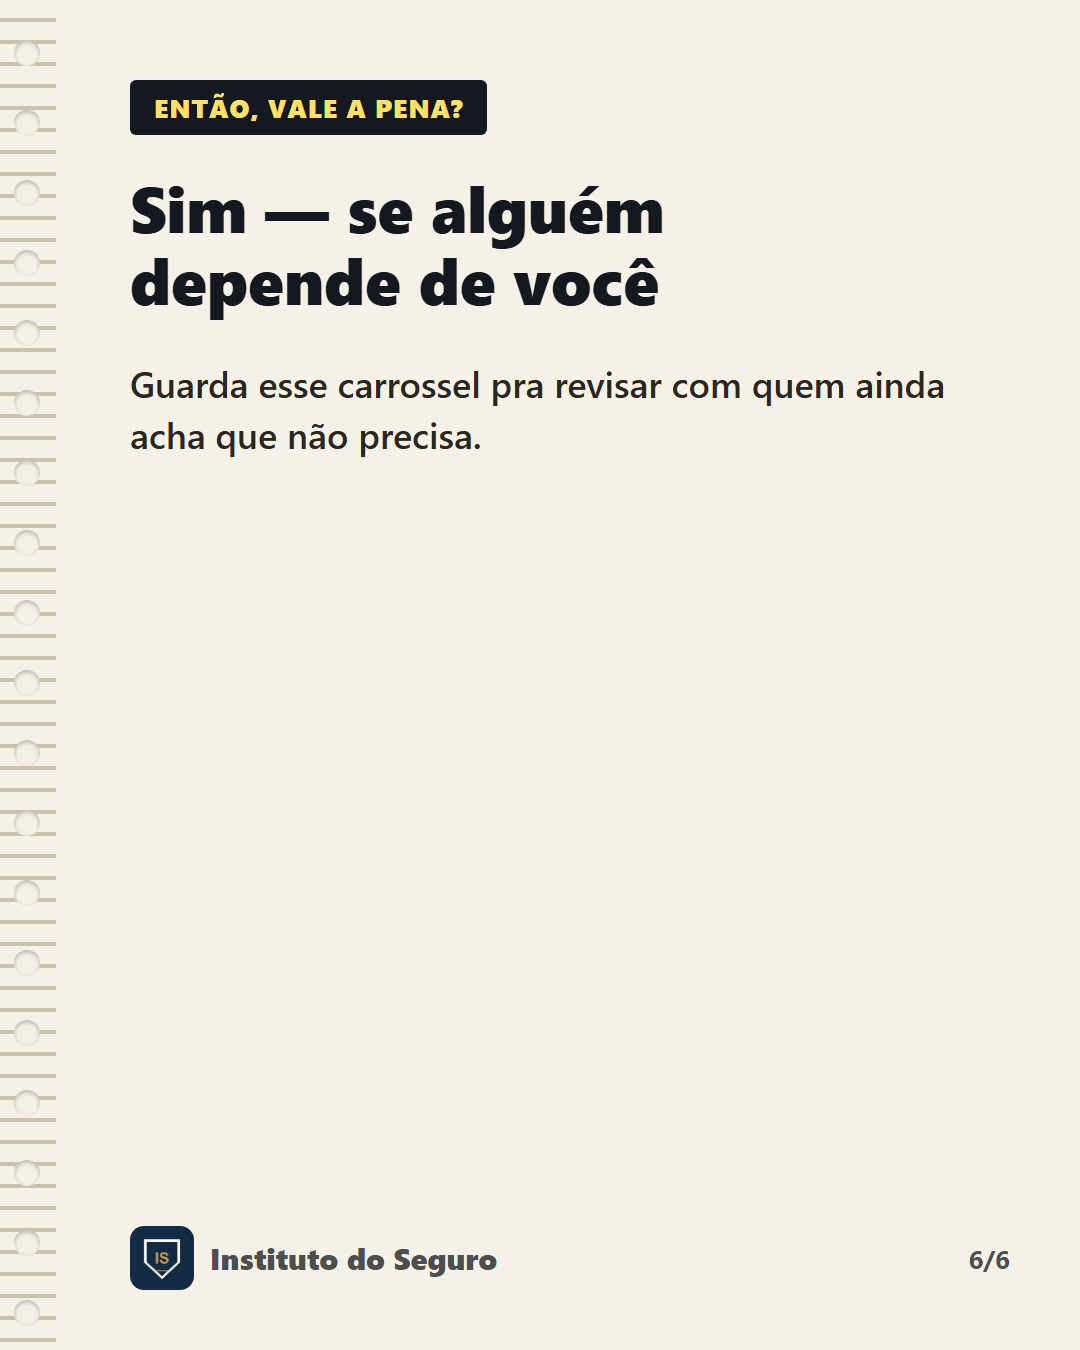
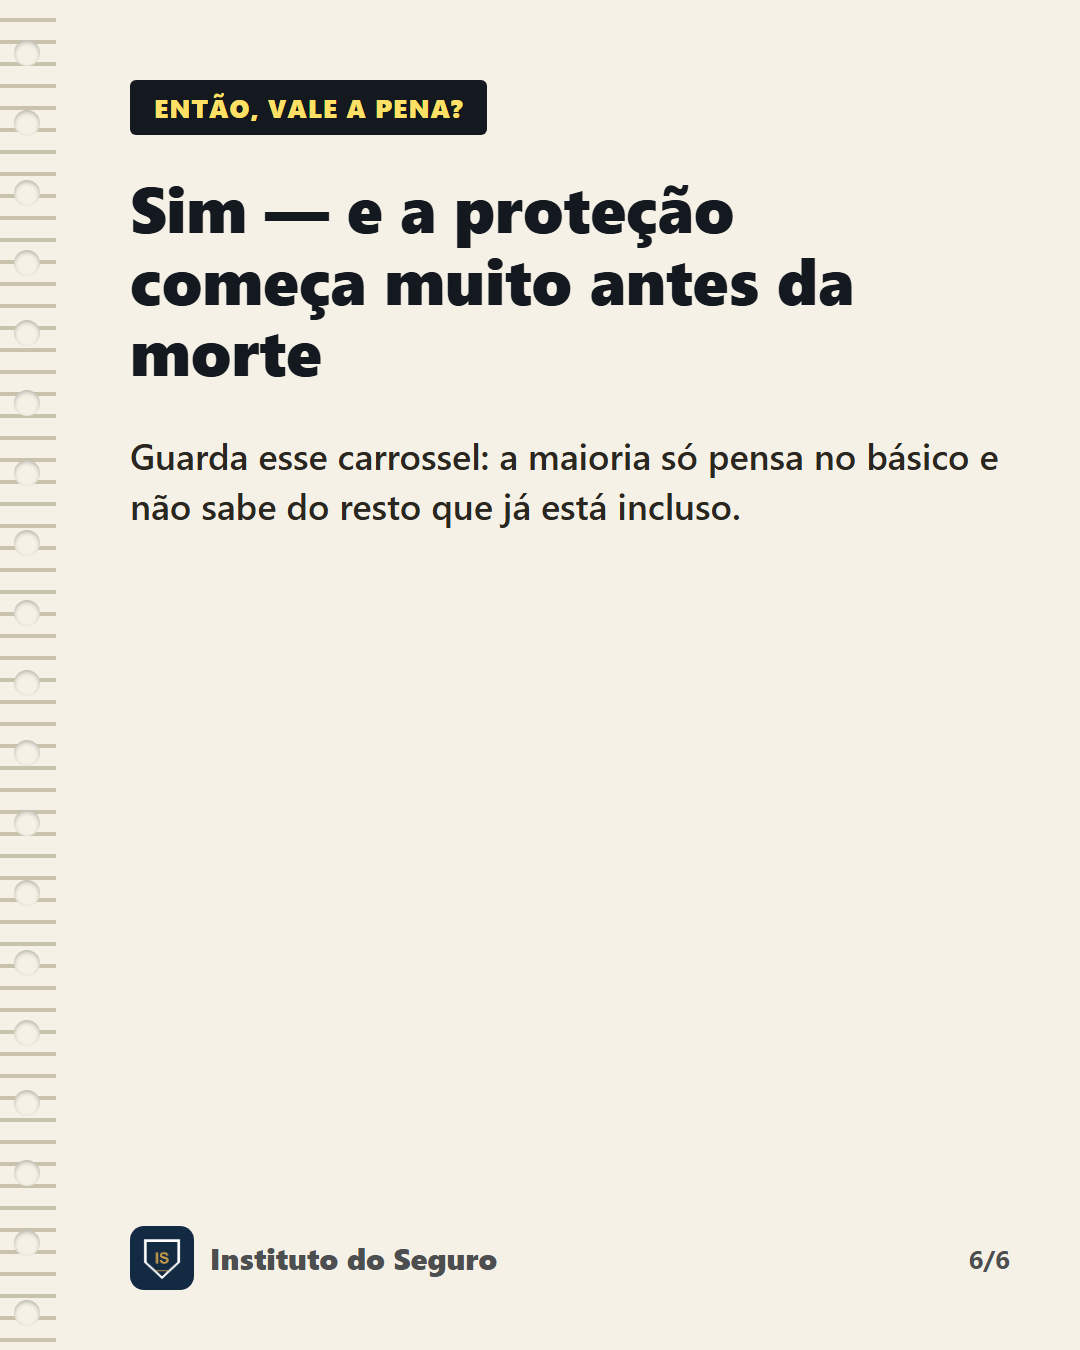
Enriquecer post 3: seguro de vida cobre bem mais que morte
Feedback do usuario (corretor real): a versao anterior era simplorio demais.
Reconstruido com coberturas reais (invalidez, doencas graves, diaria por
incapacidade) e sucessao facilitada (art. 794 CC, capital nao entra em
inventario) - pesquisado e fontado.

Changed region(s): [[0.1222, 0.1244, 0.8861, 0.4044]]

diff --git a/content/semana-03/post-03-vale-a-pena-vida/slide-04.html b/content/semana-03/post-03-vale-a-pena-vida/slide-04.html
@@ -22,15 +22,15 @@
   <div class="spiral"></div>
   <div class="spiral-hole" style="top:40px;"></div><div class="spiral-hole" style="top:110px;"></div><div class="spiral-hole" style="top:180px;"></div><div class="spiral-hole" style="top:250px;"></div><div class="spiral-hole" style="top:320px;"></div><div class="spiral-hole" style="top:390px;"></div><div class="spiral-hole" style="top:460px;"></div><div class="spiral-hole" style="top:530px;"></div><div class="spiral-hole" style="top:600px;"></div><div class="spiral-hole" style="top:670px;"></div><div class="spiral-hole" style="top:740px;"></div><div class="spiral-hole" style="top:810px;"></div><div class="spiral-hole" style="top:880px;"></div><div class="spiral-hole" style="top:950px;"></div><div class="spiral-hole" style="top:1020px;"></div><div class="spiral-hole" style="top:1090px;"></div><div class="spiral-hole" style="top:1160px;"></div><div class="spiral-hole" style="top:1230px;"></div><div class="spiral-hole" style="top:1300px;"></div>
   <div class="content">
-    <div class="tag">MITO 3</div>
-    <h1>"É só pra quem tem filho"</h1>
+    <div class="tag">SUCESSÃO FACILITADA</div>
+    <h1>Não entra no<br><span class='hl'>inventário</span></h1>
     <div class="items">
         <div style="display:flex;justify-content:space-between;align-items:center;
                     padding:22px 0;border-bottom:2px dashed #D8D2C0;">
-          <span style="font-size:36px;color:#2A2620;font-weight:600;">É mito?</span>
-          <span style="font-size:40px;color:#2A2620;font-weight:800;background:#FFE066;padding:2px 10px;border-radius:4px;">SIM</span>
+          <span style="font-size:36px;color:#2A2620;font-weight:600;">Base legal</span>
+          <span style="font-size:40px;color:#2A2620;font-weight:800;background:#FFE066;padding:2px 10px;border-radius:4px;">art. 794 CC</span>
         </div></div>
-    <div class="closing">Vale pra qualquer pessoa que tem alguém dependendo financeiramente dela — cônjuge, pais, sócio.</div>
+    <div class="closing">O capital vai direto pros beneficiários indicados — sem esperar anos de processo de inventário.</div>
   </div>
   
     <div class="brandline" style="color:rgba(20,24,31,0.75)">

diff --git a/content/semana-03/post-03-vale-a-pena-vida/slide-02.html b/content/semana-03/post-03-vale-a-pena-vida/slide-02.html
@@ -22,15 +22,15 @@
   <div class="spiral"></div>
   <div class="spiral-hole" style="top:40px;"></div><div class="spiral-hole" style="top:110px;"></div><div class="spiral-hole" style="top:180px;"></div><div class="spiral-hole" style="top:250px;"></div><div class="spiral-hole" style="top:320px;"></div><div class="spiral-hole" style="top:390px;"></div><div class="spiral-hole" style="top:460px;"></div><div class="spiral-hole" style="top:530px;"></div><div class="spiral-hole" style="top:600px;"></div><div class="spiral-hole" style="top:670px;"></div><div class="spiral-hole" style="top:740px;"></div><div class="spiral-hole" style="top:810px;"></div><div class="spiral-hole" style="top:880px;"></div><div class="spiral-hole" style="top:950px;"></div><div class="spiral-hole" style="top:1020px;"></div><div class="spiral-hole" style="top:1090px;"></div><div class="spiral-hole" style="top:1160px;"></div><div class="spiral-hole" style="top:1230px;"></div><div class="spiral-hole" style="top:1300px;"></div>
   <div class="content">
-    <div class="tag">MITO 1</div>
-    <h1>"Só serve se eu morrer"</h1>
+    <div class="tag">PROTEÇÃO EM VIDA</div>
+    <h1>Invalidez por acidente<br>ou doença grave</h1>
     <div class="items">
         <div style="display:flex;justify-content:space-between;align-items:center;
                     padding:22px 0;border-bottom:2px dashed #D8D2C0;">
-          <span style="font-size:36px;color:#2A2620;font-weight:600;">É mito?</span>
-          <span style="font-size:40px;color:#2A2620;font-weight:800;background:#FFE066;padding:2px 10px;border-radius:4px;">SIM</span>
+          <span style="font-size:36px;color:#2A2620;font-weight:600;">Precisa morrer?</span>
+          <span style="font-size:40px;color:#2A2620;font-weight:800;background:#FFE066;padding:2px 10px;border-radius:4px;">NÃO</span>
         </div></div>
-    <div class="closing">A maioria das apólices já inclui cobertura por invalidez por acidente, não só morte.</div>
+    <div class="closing">Diagnóstico de câncer, AVC, infarto ou perda de autonomia já libera capital — sem esperar o pior acontecer.</div>
   </div>
   
     <div class="brandline" style="color:rgba(20,24,31,0.75)">

diff --git a/content/semana-03/post-03-vale-a-pena-vida/slide-03.html b/content/semana-03/post-03-vale-a-pena-vida/slide-03.html
@@ -22,15 +22,15 @@
   <div class="spiral"></div>
   <div class="spiral-hole" style="top:40px;"></div><div class="spiral-hole" style="top:110px;"></div><div class="spiral-hole" style="top:180px;"></div><div class="spiral-hole" style="top:250px;"></div><div class="spiral-hole" style="top:320px;"></div><div class="spiral-hole" style="top:390px;"></div><div class="spiral-hole" style="top:460px;"></div><div class="spiral-hole" style="top:530px;"></div><div class="spiral-hole" style="top:600px;"></div><div class="spiral-hole" style="top:670px;"></div><div class="spiral-hole" style="top:740px;"></div><div class="spiral-hole" style="top:810px;"></div><div class="spiral-hole" style="top:880px;"></div><div class="spiral-hole" style="top:950px;"></div><div class="spiral-hole" style="top:1020px;"></div><div class="spiral-hole" style="top:1090px;"></div><div class="spiral-hole" style="top:1160px;"></div><div class="spiral-hole" style="top:1230px;"></div><div class="spiral-hole" style="top:1300px;"></div>
   <div class="content">
-    <div class="tag">MITO 2</div>
-    <h1>"Preciso de exame médico caro"</h1>
+    <div class="tag">PROTEÇÃO DE RENDA</div>
+    <h1>Diária por<br>incapacidade temporária</h1>
     <div class="items">
         <div style="display:flex;justify-content:space-between;align-items:center;
                     padding:22px 0;border-bottom:2px dashed #D8D2C0;">
-          <span style="font-size:36px;color:#2A2620;font-weight:600;">É mito?</span>
-          <span style="font-size:40px;color:#2A2620;font-weight:800;background:#FFE066;padding:2px 10px;border-radius:4px;">SIM</span>
+          <span style="font-size:36px;color:#2A2620;font-weight:600;">Função</span>
+          <span style="font-size:40px;color:#2A2620;font-weight:800;">mantém sua renda</span>
         </div></div>
-    <div class="closing">Pra maioria dos casos, um questionário de saúde (DPS) já basta — exame só em idade avançada ou valores altos.</div>
+    <div class="closing">Ficou afastado por acidente ou doença? Essa cobertura substitui parte do salário durante a recuperação.</div>
   </div>
   
     <div class="brandline" style="color:rgba(20,24,31,0.75)">

diff --git a/content/semana-03/post-03-vale-a-pena-vida/slide-05.html b/content/semana-03/post-03-vale-a-pena-vida/slide-05.html
@@ -22,15 +22,10 @@
   <div class="spiral"></div>
   <div class="spiral-hole" style="top:40px;"></div><div class="spiral-hole" style="top:110px;"></div><div class="spiral-hole" style="top:180px;"></div><div class="spiral-hole" style="top:250px;"></div><div class="spiral-hole" style="top:320px;"></div><div class="spiral-hole" style="top:390px;"></div><div class="spiral-hole" style="top:460px;"></div><div class="spiral-hole" style="top:530px;"></div><div class="spiral-hole" style="top:600px;"></div><div class="spiral-hole" style="top:670px;"></div><div class="spiral-hole" style="top:740px;"></div><div class="spiral-hole" style="top:810px;"></div><div class="spiral-hole" style="top:880px;"></div><div class="spiral-hole" style="top:950px;"></div><div class="spiral-hole" style="top:1020px;"></div><div class="spiral-hole" style="top:1090px;"></div><div class="spiral-hole" style="top:1160px;"></div><div class="spiral-hole" style="top:1230px;"></div><div class="spiral-hole" style="top:1300px;"></div>
   <div class="content">
-    <div class="tag">MITO 4</div>
-    <h1>"É caro"</h1>
-    <div class="items">
-        <div style="display:flex;justify-content:space-between;align-items:center;
-                    padding:22px 0;border-bottom:2px dashed #D8D2C0;">
-          <span style="font-size:36px;color:#2A2620;font-weight:600;">É mito?</span>
-          <span style="font-size:40px;color:#2A2620;font-weight:800;background:#FFE066;padding:2px 10px;border-radius:4px;">SIM</span>
-        </div></div>
-    <div class="closing">Existem planos acessíveis pra vários perfis — e o custo de não ter, pra quem depende de você, pode ser bem maior.</div>
+    <div class="tag">NÃO É SÓ PRA QUEM TEM FILHO</div>
+    <h1>Vale pra quem tem<br>alguém <span class='hl'>dependendo</span></h1>
+    <div class="items"></div>
+    <div class="closing">Cônjuge, pais idosos, sócio no negócio — qualquer pessoa que sentiria sua falta financeiramente.</div>
   </div>
   
     <div class="brandline" style="color:rgba(20,24,31,0.75)">

diff --git a/content/semana-03/post-03-vale-a-pena-vida/slide-01.html b/content/semana-03/post-03-vale-a-pena-vida/slide-01.html
@@ -23,9 +23,9 @@
   <div class="spiral-hole" style="top:40px;"></div><div class="spiral-hole" style="top:110px;"></div><div class="spiral-hole" style="top:180px;"></div><div class="spiral-hole" style="top:250px;"></div><div class="spiral-hole" style="top:320px;"></div><div class="spiral-hole" style="top:390px;"></div><div class="spiral-hole" style="top:460px;"></div><div class="spiral-hole" style="top:530px;"></div><div class="spiral-hole" style="top:600px;"></div><div class="spiral-hole" style="top:670px;"></div><div class="spiral-hole" style="top:740px;"></div><div class="spiral-hole" style="top:810px;"></div><div class="spiral-hole" style="top:880px;"></div><div class="spiral-hole" style="top:950px;"></div><div class="spiral-hole" style="top:1020px;"></div><div class="spiral-hole" style="top:1090px;"></div><div class="spiral-hole" style="top:1160px;"></div><div class="spiral-hole" style="top:1230px;"></div><div class="spiral-hole" style="top:1300px;"></div>
   <div class="content">
     <div class="tag">VALE A PENA?</div>
-    <h1>Seguro de Vida:<br>os mitos que travam<br>a <span class='hl'>decisão</span></h1>
+    <h1>Seguro de Vida:<br>muito mais do<br>que só <span class='hl'>morte</span></h1>
     <div class="items"></div>
-    <div class="closing">4 mitos que ainda confundem quem está decidindo contratar 👇</div>
+    <div class="closing">4 formas de proteção que a maioria não sabe que já existem no contrato 👇</div>
   </div>
   
     <div class="brandline" style="color:rgba(20,24,31,0.75)">

diff --git a/content/semana-03/post-03-vale-a-pena-vida/slide-06.html b/content/semana-03/post-03-vale-a-pena-vida/slide-06.html
@@ -23,9 +23,9 @@
   <div class="spiral-hole" style="top:40px;"></div><div class="spiral-hole" style="top:110px;"></div><div class="spiral-hole" style="top:180px;"></div><div class="spiral-hole" style="top:250px;"></div><div class="spiral-hole" style="top:320px;"></div><div class="spiral-hole" style="top:390px;"></div><div class="spiral-hole" style="top:460px;"></div><div class="spiral-hole" style="top:530px;"></div><div class="spiral-hole" style="top:600px;"></div><div class="spiral-hole" style="top:670px;"></div><div class="spiral-hole" style="top:740px;"></div><div class="spiral-hole" style="top:810px;"></div><div class="spiral-hole" style="top:880px;"></div><div class="spiral-hole" style="top:950px;"></div><div class="spiral-hole" style="top:1020px;"></div><div class="spiral-hole" style="top:1090px;"></div><div class="spiral-hole" style="top:1160px;"></div><div class="spiral-hole" style="top:1230px;"></div><div class="spiral-hole" style="top:1300px;"></div>
   <div class="content">
     <div class="tag">ENTÃO, VALE A PENA?</div>
-    <h1>Sim — se alguém<br>depende de você</h1>
+    <h1>Sim — e a proteção<br>começa muito antes da morte</h1>
     <div class="items"></div>
-    <div class="closing">Guarda esse carrossel pra revisar com quem ainda acha que não precisa.</div>
+    <div class="closing">Guarda esse carrossel: a maioria só pensa no básico e não sabe do resto que já está incluso.</div>
   </div>
   
     <div class="brandline" style="color:rgba(20,24,31,0.75)">

diff --git a/scripts/build_lote_03_fix.py b/scripts/build_lote_03_fix.py
@@ -56,22 +56,22 @@ def build_post_03_vale_a_pena_vida():
     total = 6
     slides = [
         notebook_slide(LOGO, "VALE A PENA?",
-                        "Seguro de Vida:<br>os mitos que travam<br>a <span class='hl'>decisão</span>",
-                        [], "4 mitos que ainda confundem quem está decidindo contratar 👇", 1, total),
-        notebook_slide(LOGO, "MITO 1", "\"Só serve se eu morrer\"",
-                        [{"label": "É mito?", "value": "SIM", "highlight": True}],
-                        "A maioria das apólices já inclui cobertura por invalidez por acidente, não só morte.", 2, total),
-        notebook_slide(LOGO, "MITO 2", "\"Preciso de exame médico caro\"",
-                        [{"label": "É mito?", "value": "SIM", "highlight": True}],
-                        "Pra maioria dos casos, um questionário de saúde (DPS) já basta — exame só em idade avançada ou valores altos.", 3, total),
-        notebook_slide(LOGO, "MITO 3", "\"É só pra quem tem filho\"",
-                        [{"label": "É mito?", "value": "SIM", "highlight": True}],
-                        "Vale pra qualquer pessoa que tem alguém dependendo financeiramente dela — cônjuge, pais, sócio.", 4, total),
-        notebook_slide(LOGO, "MITO 4", "\"É caro\"",
-                        [{"label": "É mito?", "value": "SIM", "highlight": True}],
-                        "Existem planos acessíveis pra vários perfis — e o custo de não ter, pra quem depende de você, pode ser bem maior.", 5, total),
-        notebook_slide(LOGO, "ENTÃO, VALE A PENA?", "Sim — se alguém<br>depende de você",
-                        [], "Guarda esse carrossel pra revisar com quem ainda acha que não precisa.", 6, total),
+                        "Seguro de Vida:<br>muito mais do<br>que só <span class='hl'>morte</span>",
+                        [], "4 formas de proteção que a maioria não sabe que já existem no contrato 👇", 1, total),
+        notebook_slide(LOGO, "PROTEÇÃO EM VIDA", "Invalidez por acidente<br>ou doença grave",
+                        [{"label": "Precisa morrer?", "value": "NÃO", "highlight": True}],
+                        "Diagnóstico de câncer, AVC, infarto ou perda de autonomia já libera capital — sem esperar o pior acontecer.", 2, total),
+        notebook_slide(LOGO, "PROTEÇÃO DE RENDA", "Diária por<br>incapacidade temporária",
+                        [{"label": "Função", "value": "mantém sua renda"}],
+                        "Ficou afastado por acidente ou doença? Essa cobertura substitui parte do salário durante a recuperação.", 3, total),
+        notebook_slide(LOGO, "SUCESSÃO FACILITADA", "Não entra no<br><span class='hl'>inventário</span>",
+                        [{"label": "Base legal", "value": "art. 794 CC", "highlight": True}],
+                        "O capital vai direto pros beneficiários indicados — sem esperar anos de processo de inventário.", 4, total),
+        notebook_slide(LOGO, "NÃO É SÓ PRA QUEM TEM FILHO", "Vale pra quem tem<br>alguém <span class='hl'>dependendo</span>",
+                        [],
+                        "Cônjuge, pais idosos, sócio no negócio — qualquer pessoa que sentiria sua falta financeiramente.", 5, total),
+        notebook_slide(LOGO, "ENTÃO, VALE A PENA?", "Sim — e a proteção<br>começa muito antes da morte",
+                        [], "Guarda esse carrossel: a maioria só pensa no básico e não sabe do resto que já está incluso.", 6, total),
     ]
     for i, html in enumerate(slides, 1):
         make_html_and_render(out, f"slide-{i:02d}", html)

diff --git a/content/semana-03/legendas.md b/content/semana-03/legendas.md
@@ -37,13 +37,13 @@ Mito — e o dado é chocante: dos 28,4 milhões de brasileiros que viajaram pro
 ## Quarta 19h — Vale a pena? Seguro de Vida (6 slides)
 **Pasta:** post-03-vale-a-pena-vida/
 
-Seguro de vida: os mitos que travam a decisão de contratar 🛡
+Seguro de vida: muito mais do que só morte 🛡
 
-Separamos os 4 mitos mais comuns que ainda confundem quem está decidindo se vale a pena — de achar que é só pra quem tem filho até achar que precisa de exame médico caro.
+A maioria pensa só no básico. Mas o contrato geralmente já inclui: proteção em vida (invalidez por acidente ou doença grave, sem precisar morrer), proteção de renda (diária por incapacidade temporária), e sucessão facilitada — o capital não entra no inventário (art. 794 do Código Civil), vai direto pros beneficiários, sem esperar anos de processo.
 
-👇 Qual desses mitos você também acreditava?
+👇 Qual dessas coberturas você não sabia que já estava no seu contrato?
 
-#segurodevida #valeapena #institutodoseguro
+#segurodevida #valeapena #institutodoseguro #planejamentosucessorio
 
 ---
 
@@ -77,6 +77,8 @@ Seguro viagem deve crescer 12,2% em 2026 (CNseg), paga comissão média de até 
 Reaproveita o Post 1 (mito seguro auto x aplicativo) — tema mais universal (qualquer dono de carro se pergunta isso) que o de seguro viagem, mais adequado pro teste de fim de semana.
 
 ## Fontes usadas neste lote
+- Coberturas de seguro de vida além de morte (invalidez por acidente/doença, doenças graves, diária por incapacidade temporária): [MetLife — principais coberturas](https://www.metlife.com.br/blog/explica-metlife/principais-coberturas-seguro-de-vida/), [BB Seguros — cobertura de doenças graves](https://www.bbseguros.com.br/seguros/blog/vida/cobertura-doencas-graves-seguro-de-vida)
+- Art. 794 do Código Civil (capital do seguro de vida não é considerado herança, não integra inventário nem responde por dívidas do segurado): [Jusbrasil — art. 794 CC](https://www.jusbrasil.com.br/topicos/10685579/artigo-794-da-lei-n-10406-de-10-de-janeiro-de-2002), [Blog Icatu — seguro de vida entra no inventário?](https://blog.icatuseguros.com.br/minha-vida/seguro-de-vida/seguro-de-vida-entra-no-inventario/)
 - Exclusão de uso comercial em seguro auto comum e exigência de cobertura APP específica pela SUSEP: [Avalia Seguros — seguro para motorista de aplicativo](https://avaliaseguros.com.br/seguro-para-motorista-de-aplicativo/), [Consulta de Placa — seguro motorista app 2026](https://consultadeplaca.net/blog/seguro-motorista-app-uber-99-cabify-cobertura-2026)
 - Art. 771 do Código Civil (dever de aviso de sinistro) e entendimento majoritário de que a perda do direito exige prejuízo comprovado à seguradora, não é automática: [Conjur — o aviso de sinistro na proposta de reforma do Código Civil](https://www.conjur.com.br/2024-mar-07/o-aviso-de-sinistro-na-proposta-de-reforma-do-codigo-civil/), [Jusbrasil — art. 771 CC](https://www.jusbrasil.com.br/topicos/10687065/artigo-771-da-lei-n-10406-de-10-de-janeiro-de-2002)
 - Seguro viagem obrigatório na Zona Schengen, cobertura mínima de €30 mil: [Eurodicas — seguro viagem Europa 2026](https://www.eurodicas.com.br/seguro-de-viagem-europa/)
